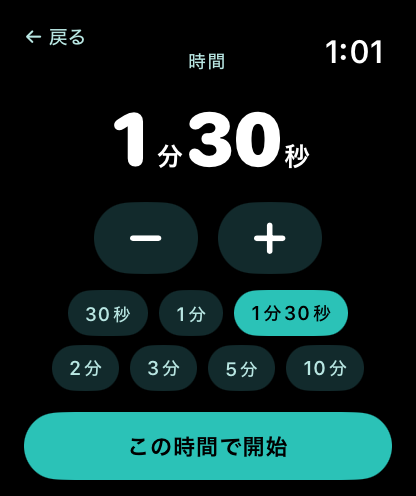
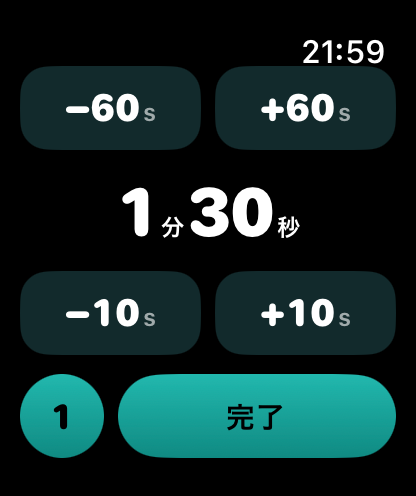
サポートページと掲載文をいまの仕様に更新。ストア用スクショを撮り直し。撮影中は通知とセッションに触らない

diff --git a/docs/index.html b/docs/index.html
@@ -15,43 +15,61 @@
   開くだけで、決めておいた時間（初期値は 1分30秒）が<strong>すぐに走り出します</strong>。
   終わったら<strong>一度だけ震えて止まります</strong>。鳴り続けないので、放っておいて構いません。
   文字盤のコンプリケーションに置けば、本当にワンタップです。
+  やめたいときは <strong>Digital Crown</strong> を押すだけです。
 </p>
 
 <h2>使いかた</h2>
 <ol>
   <li>アプリを開く（またはコンプリケーションを押す）と、タイマーが始まります。</li>
   <li>画面全体の水位が下がっていきます。1分を切ると、秒だけを大きく出します。</li>
-  <li>終わると一度だけ震え、画面が白くなって「おわり」と出ます。</li>
-  <li><strong>画面をタップすると、最初からやり直します。</strong></li>
+  <li>終わると一度だけ震え、画面が明るくなって「おわり」と出ます。</li>
+  <li><strong>「おわり」の画面をタップすると、もう一度始まります。</strong></li>
 </ol>
+<p class="note">
+  <strong>走っている最中に画面をタップしても、何も起きません。</strong>
+  練習中や作業中に手が触れて、タイマーが最初に戻ってしまうのを防ぐためです。
+</p>
+
+<h2>途中でやめる</h2>
+<p>
+  <strong>Digital Crown を押してください。</strong>タイマーが止まり、文字盤に戻ります。
+  走っている画面の右上に「キャンセル ▶」と出ていて、矢印の先が Digital Crown の位置です。
+</p>
+<p>
+  アプリから出ると、タイマーも予約したお知らせも消えます。
+  <strong>裏で動き続けることはありません。</strong>あとから急に震えることもありません。
+</p>
 
 <h2>時間を変える</h2>
 <p>
-  左上の歯車を押します。<strong>＋ −</strong>（押しっぱなしで動き続けます）、
-  よく使う値の<strong>チップ</strong>、または <strong>Digital Crown</strong> で合わせて、
-  「この時間で開始」を押してください。次から、その時間で始まります。
-  10秒から60分まで設定できます。
+  画面の上の中央にある丸いボタン（ストップウォッチのマーク）を押します。
+  <strong>−10s / +10s</strong> と <strong>−60s / +60s</strong> の4つ、または <strong>Digital Crown</strong>（1目盛り10秒）で合わせて、
+  「完了」を押してください。次から、その時間で始まります。10秒から60分まで設定できます。
+</p>
+<p>
+  同じ画面の左下にある色の丸を押すと、<strong>10色</strong>を順番に切り替えられます。
+  タイマーの画面も、文字盤のコンプリケーションも、選んだ色になります。
 </p>
 
 <h2>よくある質問</h2>
 
-<h3>腕を下ろしていても知らせてくれますか</h3>
+<h3>腕を下ろしていても大丈夫ですか</h3>
 <p>
-  はい。終わる時刻に<strong>通知が一度</strong>届き、震えます。
-  初回に通知の許可を求めるのはこのためです。許可しなくてもタイマーは動きますが、
-  画面を見ていない間はお知らせできません。
+  大丈夫です。<strong>走っている間は文字盤に戻りません。</strong>
+  腕を下ろしていても時間は正確に進み、終わりにきちんと震えます。
 </p>
 
-<h3>途中で止めたい</h3>
+<h3>終わったあとはどうなりますか</h3>
 <p>
-  止めるボタンはありません。放っておけば終わりに一度震えるだけです。
-  やり直したいときは画面をタップしてください。
+  一度だけ震えて止まります。鳴り続けないので、放っておいて構いません。
+  終わった時点でお知らせの予約も片付くので、あとから何かが起きることはありません。
+  そのまま腕を下ろせば、文字盤に戻ります。
 </p>
 
-<h3>終わったあとに開き直すと、また始まりますか</h3>
+<h3>もう一度使いたいときは</h3>
 <p>
-  終わってから30秒以内に開いた場合は「おわり」の画面のままです（腕を上げて確かめただけで次が始まらないように）。
-  それより後に開くと、新しく始まります。走っている最中に開き直した場合は続きです。
+  「おわり」の画面をタップするか、アプリをもう一度開いてください。どちらも同じ時間で始まります。
+  <strong>腕を上げただけでは始まりません。</strong>
 </p>
 
 <h3>文字盤から一発で開きたい</h3>
@@ -59,7 +77,7 @@
   文字盤を長押し → <strong>編集</strong> → コンプリケーションの枠を選び、
   一覧から「ワンタップタイマー」を選んでください。
   コンプリケーションには<strong>設定してある秒数</strong>（例：90）が出ます。
-  走っている間は残り時間に変わります。一覧に出てこないときは、Apple Watch を一度再起動すると出ます。
+  一覧に出てこないときは、Apple Watch を一度再起動すると出ます。
 </p>
 
 <h3>振動が弱く感じます</h3>
@@ -69,7 +87,7 @@
 </p>
 
 <h3>音は鳴りますか</h3>
-<p>鳴りません。振動だけです。腕を下ろしている間の通知は、Watch の通知の設定に従います。</p>
+<p>鳴りません。振動だけです。</p>
 
 <h3>Apple Watch だけで使えますか</h3>
 <p>使えます。<strong>iPhone アプリを入れずに、Apple Watch にだけ入れられます。</strong></p>

diff --git a/docs/en/index.html b/docs/en/index.html
@@ -15,45 +15,67 @@
   Open the app and your preset time (1 minute 30 seconds by default) <strong>starts right away</strong>.
   When it ends, the watch <strong>taps you once and stops</strong>. It never keeps buzzing, so you can leave it alone.
   Put it on your watch face as a complication and it is truly one tap.
+  To stop early, just press the <strong>Digital Crown</strong>.
 </p>
 
 <h2>How it works</h2>
 <ol>
   <li>Open the app (or tap the complication). The timer starts.</li>
   <li>The water level drains across the whole screen. Under one minute, only the seconds are shown, large.</li>
-  <li>At the end you get a single haptic, and the screen turns white with “DONE”.</li>
-  <li><strong>Tap the screen to start over.</strong></li>
+  <li>At the end you get a single haptic, and the screen turns light with “DONE”.</li>
+  <li><strong>Tap the “DONE” screen to run it again.</strong></li>
 </ol>
+<p class="note">
+  <strong>Tapping while the timer is running does nothing.</strong>
+  That way a stray touch during a workout or a task cannot send the timer back to the start.
+</p>
+
+<h2>Stopping early</h2>
+<p>
+  <strong>Press the Digital Crown.</strong> The timer stops and you are back on the watch face.
+  While running, the top right of the screen shows “Cancel ▶”, and the arrow points at the Digital Crown.
+</p>
+<p>
+  Leaving the app clears the timer and its scheduled alert.
+  <strong>Nothing keeps running in the background</strong>, and nothing buzzes later.
+</p>
 
 <h2>Changing the time</h2>
 <p>
-  Tap the gear in the top left. Use <strong>+ −</strong> (hold to keep going), the <strong>preset chips</strong>,
-  or the <strong>Digital Crown</strong>, then tap “Start with this”. The app remembers it for next time.
-  Anything from 10 seconds to 60 minutes.
+  Tap the round button at the top center (the stopwatch mark). Use <strong>−10s / +10s</strong> and
+  <strong>−60s / +60s</strong>, or the <strong>Digital Crown</strong> (one detent = 10 seconds), then tap “Done”.
+  The app remembers it for next time. Anything from 10 seconds to 60 minutes.
+</p>
+<p>
+  The colored circle at the bottom left cycles through <strong>ten colors</strong>.
+  Both the timer screen and the watch-face complication follow your choice.
 </p>
 
 <h2>FAQ</h2>
 
-<h3>Will it notify me when my wrist is down?</h3>
+<h3>Can I lower my wrist?</h3>
 <p>
-  Yes. A <strong>single notification</strong> arrives at the end time and taps your wrist.
-  That is why the app asks for notification permission once. Without it the timer still runs,
-  but it cannot alert you while you are not looking at the screen.
+  Yes. <strong>The app stays put while the timer runs</strong> instead of returning to the watch face,
+  so the time stays accurate and the haptic lands exactly at zero.
 </p>
 
-<h3>How do I stop it?</h3>
-<p>There is no stop button. Left alone, it just taps once at the end. To start over, tap the screen.</p>
-
-<h3>If I open it again after it ended, does it restart?</h3>
+<h3>What happens at the end?</h3>
 <p>
-  Within 30 seconds of the end, you see the “DONE” screen (so a glance at your wrist does not start the next one).
-  After that, opening the app starts a fresh timer. If it is still running, you get the running timer.
+  One haptic, then it stops. No endless buzzing, nothing to dismiss.
+  The scheduled alert is cleared at the same moment, so nothing happens afterwards.
+  Lower your wrist and you are back on the watch face.
+</p>
+
+<h3>How do I run it again?</h3>
+<p>
+  Tap the “DONE” screen, or open the app again. Either way it starts with the same time.
+  <strong>Simply raising your wrist does not start it.</strong>
 </p>
 
 <h3>Opening it from the watch face</h3>
 <p>
   Long-press the watch face → <strong>Edit</strong> → pick a complication slot → choose “One Tap Timer”.
-  The complication shows <strong>your preset in seconds</strong> (for example 90) and switches to the remaining time while running.
+  The complication shows <strong>your preset in seconds</strong> (for example 90).
   If it does not appear in the list, restart the Apple Watch once.
 </p>
 
@@ -61,7 +83,7 @@
 <p>Check <strong>Settings → Sounds &amp; Haptics → Haptic Strength</strong> on the watch. Turning on “Prominent Haptic” helps too.</p>
 
 <h3>Does it make a sound?</h3>
-<p>No. Haptics only. The end-time notification follows your watch’s notification settings.</p>
+<p>No. Haptics only.</p>
 
 <h3>Apple Watch only?</h3>
 <p>Yes. <strong>You can install it on the Apple Watch without installing the iPhone app.</strong></p>

diff --git a/OneTapTimer/OneTapTimer/RootView.swift b/OneTapTimer/OneTapTimer/RootView.swift
@@ -14,11 +14,14 @@ struct RootView: View {
         }
         .animation(.easeInOut(duration: 0.22), value: runner.screen)
         .task {
-            // 前に出ている間は通知を出さない（自分で鳴らす）。裏では通知が鳴る
-            UNUserNotificationCenter.current().delegate = runner.gate
-            // シミュレータで画面を撮るときは、許可ダイアログを出させない（合成タップが届かない。引き継ぎ書 4-24）
-            if !skipsPermissionForChecking { await runner.notifier.requestPermission() }
-            applyDebugStateIfAsked()
+            // シミュレータで画面を撮るときは、通知まわりに一切触らない
+            // （許可ダイアログが出ると、合成タップでは消せない。引き継ぎ書 4-24 / 4-107）
+            if !skipsPermissionForChecking {
+                // 前に出ている間は通知を出さない（自分で鳴らす）。裏では通知が鳴る
+                UNUserNotificationCenter.current().delegate = runner.gate
+                await runner.notifier.requestPermission()
+            }
+            await applyDebugStateIfAsked()
         }
     }
 
@@ -33,11 +36,13 @@ struct RootView: View {
     /// シミュレータでの動作確認用の入口。**リリース構成には入らない。**
     ///
     ///     SIMCTL_CHILD_OTT_STATE="running:45" xcrun simctl launch <udid> com.zzzjjj080.OneTapTimer.watchkitapp
-    private func applyDebugStateIfAsked() {
+    /// **`activate()` より後に効かせる。** 画面が出るときの `scenePhase` の通知と
+    /// この `.task` はどちらが先か決まっておらず、先に入れても新しいタイマーで上書きされる。
+    private func applyDebugStateIfAsked() async {
         #if DEBUG
-        if let spec = ProcessInfo.processInfo.environment["OTT_STATE"] {
-            runner.applyDebugState(spec)
-        }
+        guard let spec = ProcessInfo.processInfo.environment["OTT_STATE"] else { return }
+        try? await Task.sleep(for: .milliseconds(400))
+        runner.applyDebugState(spec)
         #endif
     }
 }

diff --git a/OneTapTimerUI/Sources/OneTapTimerUI/EndNotifier.swift b/OneTapTimerUI/Sources/OneTapTimerUI/EndNotifier.swift
@@ -33,8 +33,14 @@ public final class EndNotifier: EndScheduling {
     }
 
     /// 終わる時刻に1回。前の登録は消す。
+    ///
+    /// **許可が下りていないなら、登録そのものをしない。**
+    /// watchOS は許可を聞いていない状態で `add` すると、そこで許可ダイアログを出す。
+    /// 画面を撮っている最中に出られると、以後どの画面も撮れなくなる（引き継ぎ書 4-107）。
+    /// 許可が無ければどのみち鳴らないので、黙って何もしないのが正しい。
     public func schedule(endAt: Date, duration: Int) {
         center.removePendingNotificationRequests(withIdentifiers: [id])
+        guard isAllowed else { return }
         let after = endAt.timeIntervalSinceNow
         guard after > 0.5 else { return }
 
@@ -71,4 +77,17 @@ public final class NotificationGate: NSObject, UNUserNotificationCenterDelegate,
 import OneTapTimerCore
 enum TimeTextBridge {
     static func brief(_ seconds: Int) -> String { TimeText.brief(seconds) }
+}
+
+
+/// 何もしない予約係。**画面を撮るときだけ差し替える。**
+///
+/// watchOS のシミュレータは、通知まわりのどこかに触れると許可ダイアログを出すことがある。
+/// 一度出ると、合成タップでは消せず（引き継ぎ書 4-24）、以後どの画面も撮れない。
+/// 撮影中は `UNUserNotificationCenter` に一切触らないのが確実。
+public final class SilentNotifier: EndScheduling {
+    public init() {}
+    public func requestPermission() async {}
+    public func schedule(endAt: Date, duration: Int) {}
+    public func cancel() {}
 }

diff --git a/OneTapTimer/OneTapTimer/OneTapTimerApp.swift b/OneTapTimer/OneTapTimer/OneTapTimerApp.swift
@@ -4,7 +4,22 @@ import OneTapTimerUI
 
 @main
 struct OneTapTimerApp: App {
-    @State private var runner = Runner(haptics: Haptics(), keeper: FrontKeeper())
+    @State private var runner = OneTapTimerApp.makeRunner()
+
+    /// 画面を撮るときは、通知にも前面を留めるセッションにも触らない（`OTT_SKIP_PERMISSION=1`）。
+    ///
+    /// **`WKExtendedRuntimeSession` を始めると、通知の許可ダイアログが出る**（self-care は
+    /// 利用者へ知らせる前提の仕組みなので、通知の許可を求めてくる）。
+    /// 一度出ると合成タップでは消せず、以後どの画面も撮れない（引き継ぎ書 4-24 / 4-107）。
+    /// **リリース構成には入らない。**
+    private static func makeRunner() -> Runner {
+        #if DEBUG
+        if ProcessInfo.processInfo.environment["OTT_SKIP_PERMISSION"] == "1" {
+            return Runner(haptics: Haptics(), notifier: SilentNotifier())
+        }
+        #endif
+        return Runner(haptics: Haptics(), keeper: FrontKeeper())
+    }
     @Environment(\.scenePhase) private var phase
 
     var body: some Scene {

diff --git a/OneTapTimer/OneTapTimerPhone/PhoneRootView.swift b/OneTapTimer/OneTapTimerPhone/PhoneRootView.swift
@@ -28,11 +28,14 @@ struct PhoneRootView: View {
                 .presentationBackground(Color(hex: PaletteHex.ground))
         }
         .task {
-            UNUserNotificationCenter.current().delegate = runner.gate
-            // シミュレータで画面を撮るときは、許可ダイアログを出させない（合成タップが届かない。引き継ぎ書 4-24）
-            if !skipsPermissionForChecking { await runner.notifier.requestPermission() }
+            if !skipsPermissionForChecking {
+                UNUserNotificationCenter.current().delegate = runner.gate
+                await runner.notifier.requestPermission()
+            }
             #if DEBUG
+            // activate() より後に効かせる（先に入れても新しいタイマーで上書きされる）
             if let spec = ProcessInfo.processInfo.environment["OTT_STATE"] {
+                try? await Task.sleep(for: .milliseconds(400))
                 runner.applyDebugState(spec)
             }
             #endif

diff --git a/OneTapTimer/OneTapTimerPhone/OneTapTimerPhoneApp.swift b/OneTapTimer/OneTapTimerPhone/OneTapTimerPhoneApp.swift
@@ -10,7 +10,17 @@ import OneTapTimerUI
 /// 動きは `OneTapTimerUI` の `Runner` を Watch と共有している。
 @main
 struct OneTapTimerPhoneApp: App {
-    @State private var runner = Runner(haptics: PhoneHaptics())
+    @State private var runner = OneTapTimerPhoneApp.makeRunner()
+
+    /// 画面を撮るときは、通知に触らない作りへ差し替える。**リリース構成には入らない。**
+    private static func makeRunner() -> Runner {
+        #if DEBUG
+        if ProcessInfo.processInfo.environment["OTT_SKIP_PERMISSION"] == "1" {
+            return Runner(haptics: PhoneHaptics(), notifier: SilentNotifier())
+        }
+        #endif
+        return Runner(haptics: PhoneHaptics())
+    }
     @Environment(\.scenePhase) private var phase
 
     var body: some Scene {

diff --git a/docs/privacy.html b/docs/privacy.html
@@ -32,7 +32,7 @@
 
 <h2>端末に保存するもの</h2>
 <p>
-  設定した時間と、いま走っているタイマーの終わる時刻だけを、端末の中に保存します。
+  設定した時間、選んだ色、いま走っているタイマーの終わる時刻だけを、端末の中に保存します。
   次に開いたときに同じ時間で始めるため、また文字盤のコンプリケーションに秒数を出すためです。
   これも外部へは送られません。アプリを削除すれば一緒に消えます。
 </p>

diff --git a/docs/en/privacy.html b/docs/en/privacy.html
@@ -31,7 +31,7 @@
 
 <h2>Stored on your device</h2>
 <p>
-  Only your preset time and the end time of the running timer, so the app can start with the same time next time
+  Only your preset time, the color you picked, and the end time of the running timer, so the app can start with the same time next time
   and show the seconds on the watch-face complication. This never leaves the device and is deleted with the app.
 </p>
 
